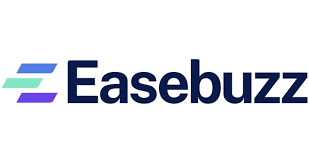
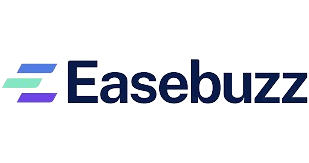
stripe gateway added

diff --git a/lib/individual_subscription/view/subscription_view.dart b/lib/individual_subscription/view/subscription_view.dart
@@ -175,8 +175,8 @@ class _SubscriptionViewState extends State<SubscriptionView> {
                         items: [
                           GestureDetector(
                             onTap: () async {
-                              // String value = await controller.subscriptionPurchase(subsId: controller.subscriptionModel.subsData[0].id);
-                              if ('1' == '1')
+                               String value = await controller.subscriptionPurchase(subsId: controller.subscriptionModel.subsData[0].id);
+                              if (value == '1')
                                 selectPlanBottom(
                                     context: context,
                                     name: controller
@@ -702,7 +702,7 @@ You can parse it accordingly to handle response */
                                 ),
                                 Image.asset(
                                   'assets/images/easebuzz.png',
-                                  width: 80,
+                                  width: 90,
                                   height: 55,
                                 ),
                               ],
@@ -805,7 +805,7 @@ You can parse it accordingly to handle response */
                               children: [
 
                                 Text(
-                                  'Continue with Credit/Debit Card ',
+                                  'Continue with Credit/Debit Card  ',
                                   maxLines: 2,
                                   textAlign: TextAlign.center,
                                   style: TextStyle(
@@ -814,9 +814,9 @@ You can parse it accordingly to handle response */
                                       fontSize: 20),
                                 ),
                                 Image.asset(
-                                  'assets/images/stripe.png',
-                                  width: 25,
-                                  height: 25,
+                                  'assets/images/stripe_new.png',
+                                  width: 90,
+                                  height: 55,
                                 ),
                               ],
                             ),

diff --git a/lib/individual_party_preview/party_preview_screen_new.dart b/lib/individual_party_preview/party_preview_screen_new.dart
@@ -62,7 +62,7 @@ class _PartyPreviewScreenState extends State<PartyPreviewScreen> {
       body: GetBuilder<PartyPreviewScreenController>(
         init:PartyPreviewScreenController() ,
         builder: (controller) {
-          getSingleParty = controller.party;
+           var getSingleParty = controller.party;
           return controller.isLoading.value == false ? Padding(
             padding: const EdgeInsets.symmetric(horizontal: 18.0),
             child: ListView(
